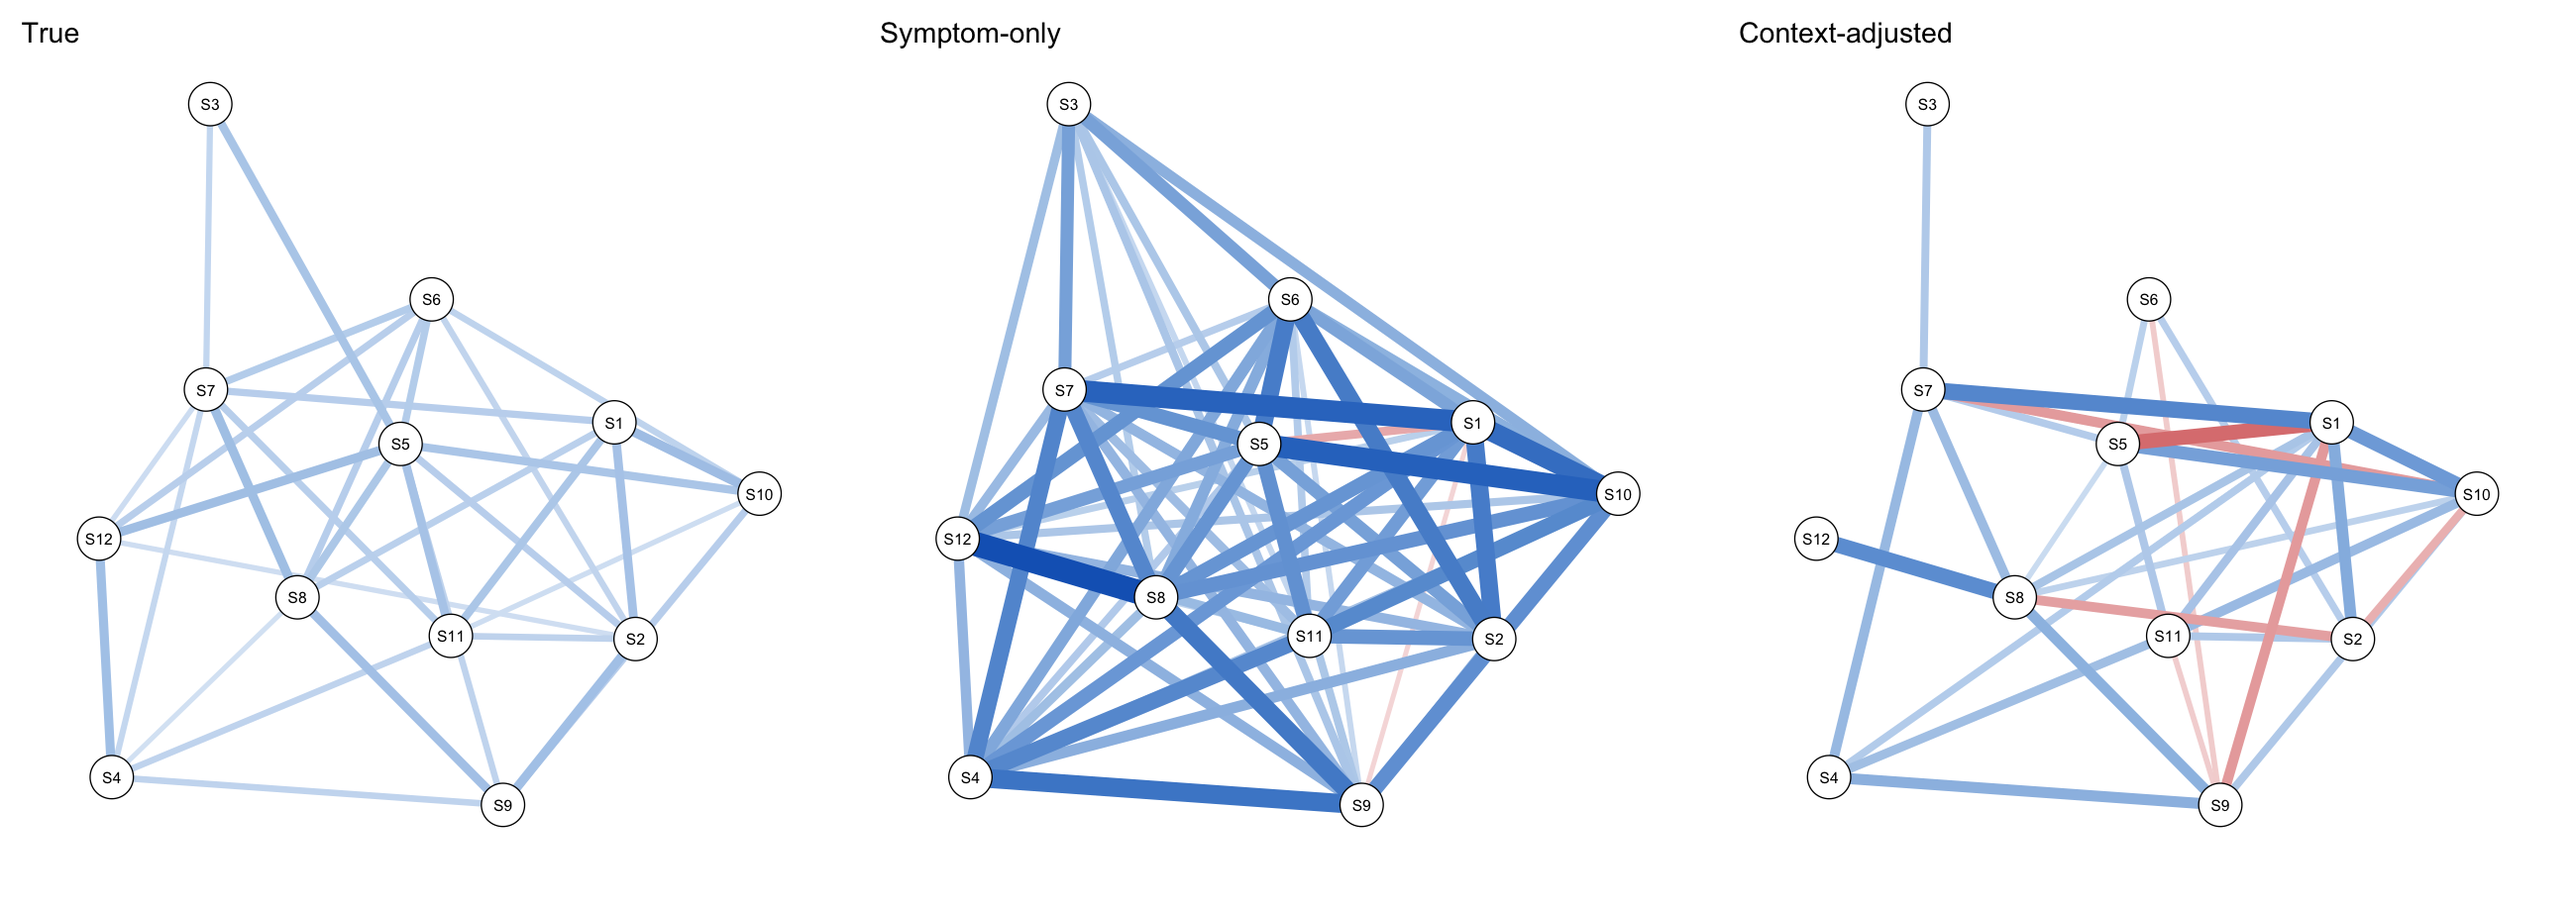
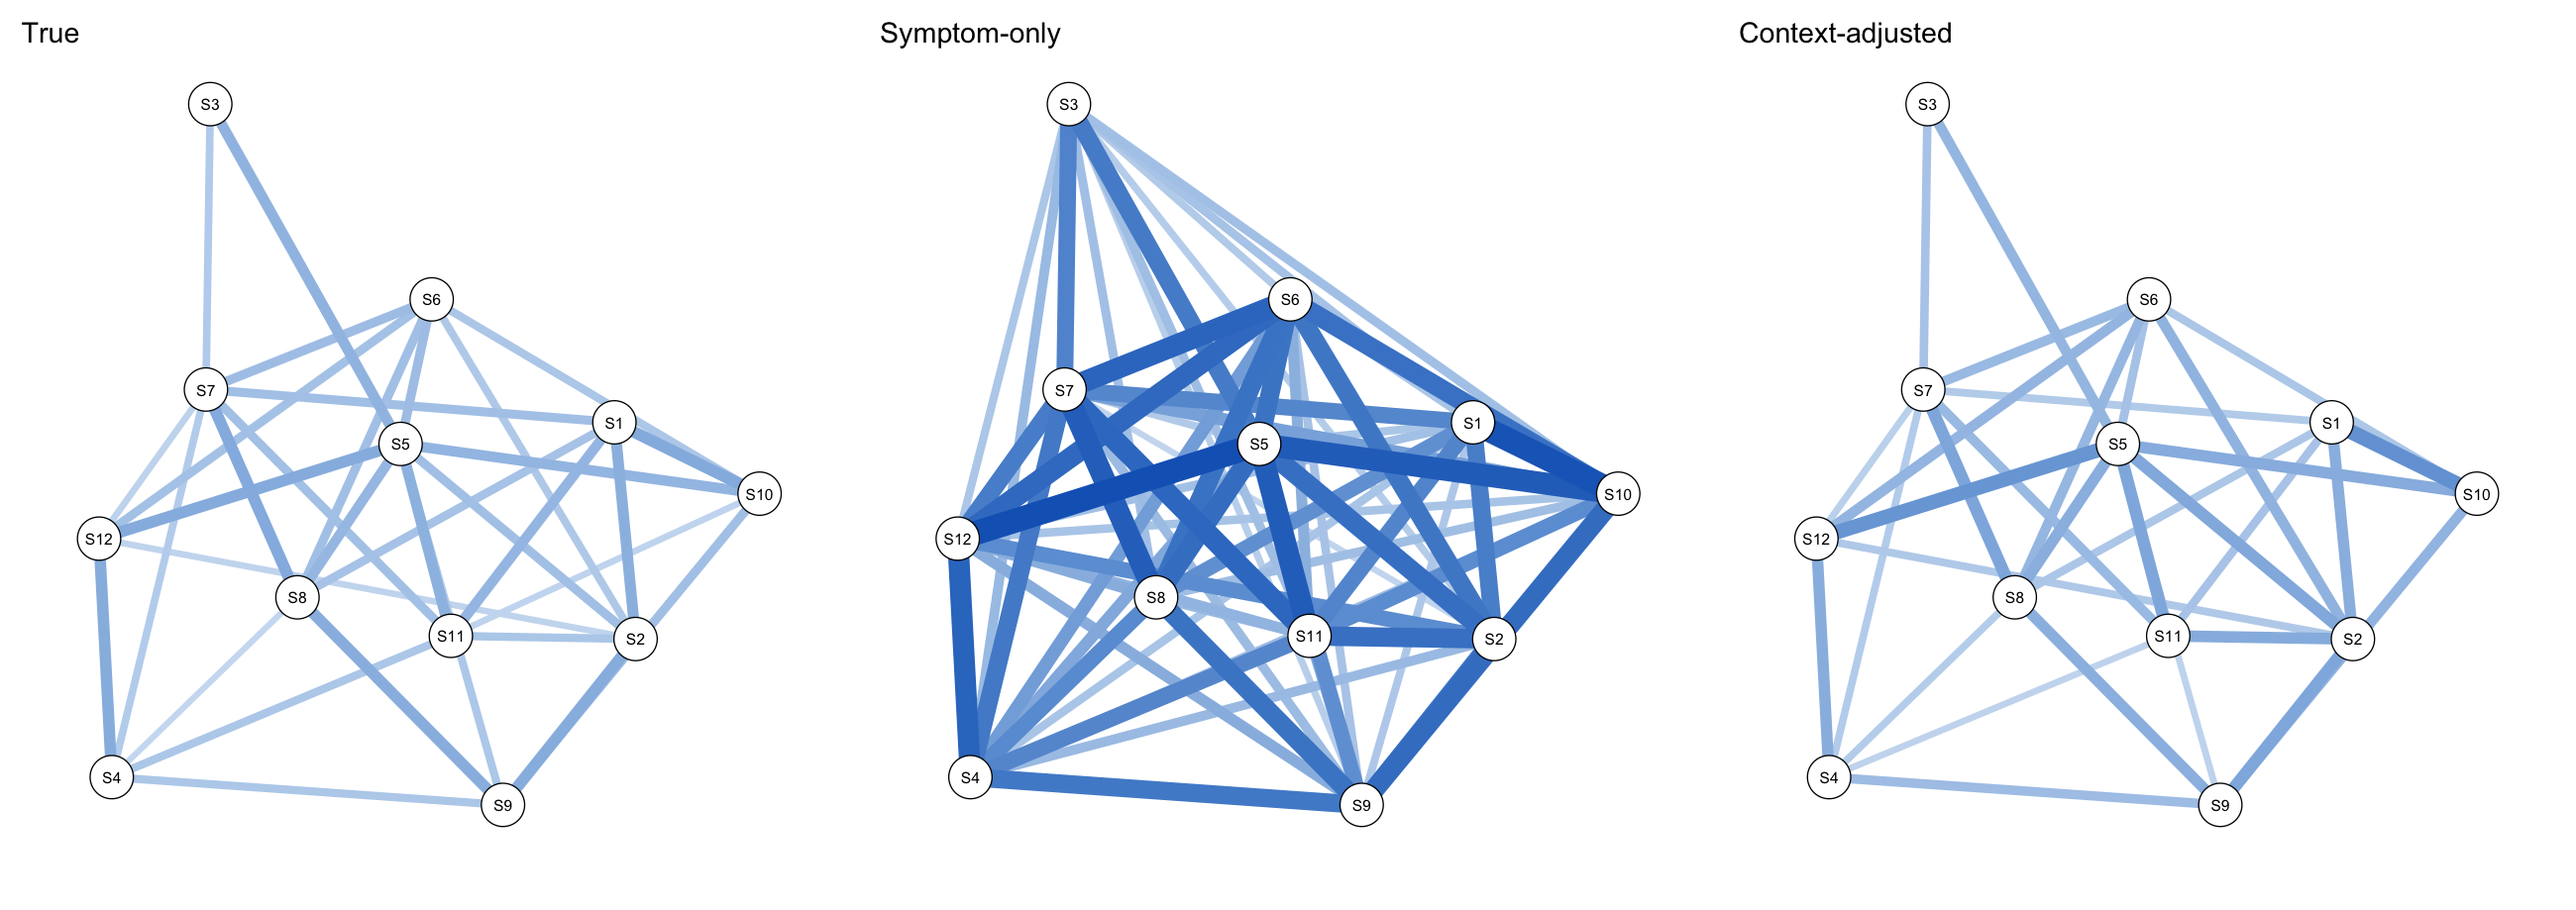
update estimated networks

diff --git a/manuscript.tex b/manuscript.tex
@@ -554,8 +554,8 @@ true coupling is recovered.
   replicates of the same condition (matching the averaging used to compute Figure~\ref{fig:network_check})
   so that single-replicate sampling noise in individual edges is not mistaken for a systematic
   pattern. Edge color indicates the sign of the estimated coupling (blue = positive, red =
-  negative); the true network contains no negative edges, so red edges in the estimated networks
-  reflect estimation noise rather than the data-generating structure. Edges below a common plotting
+  negative); consistent with the true network, no negative edges survive averaging across
+  replicates in either estimated panel. Edges below a common plotting
   threshold are omitted for clarity in the two estimated panels (the true panel is shown at full
   precision, since it has no sampling noise to threshold away), and the same spring layout, derived
   from the true network, and the same edge-weight scaling are used across all three panels. Omitting slow context yields a substantially denser network than the true structure, whereas
